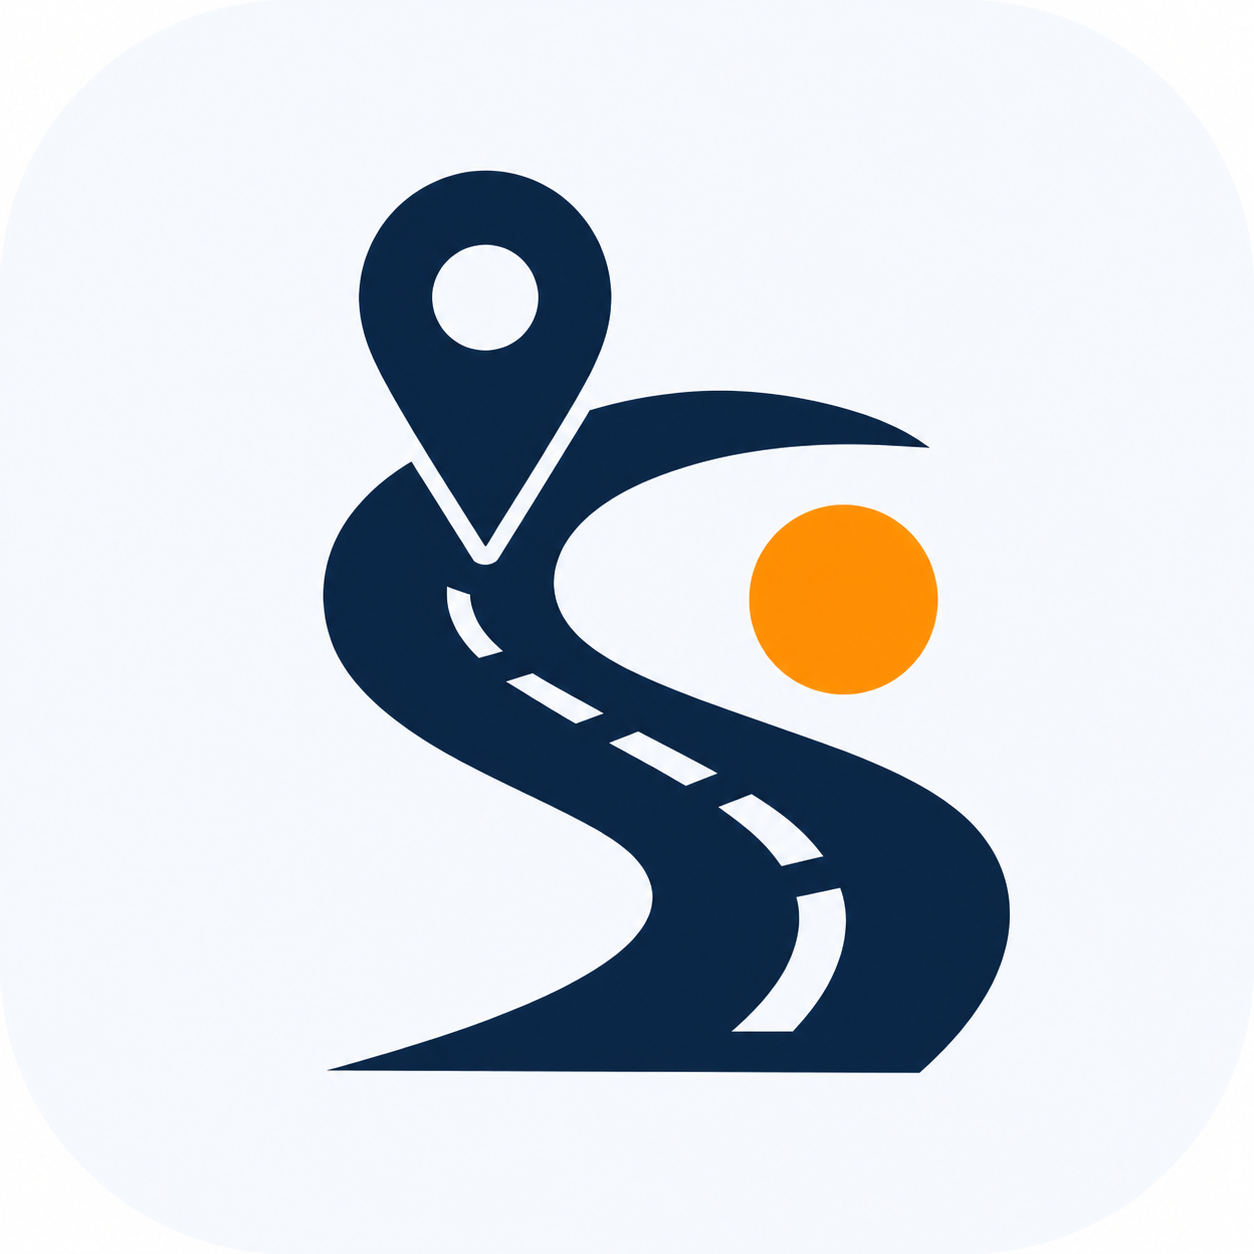
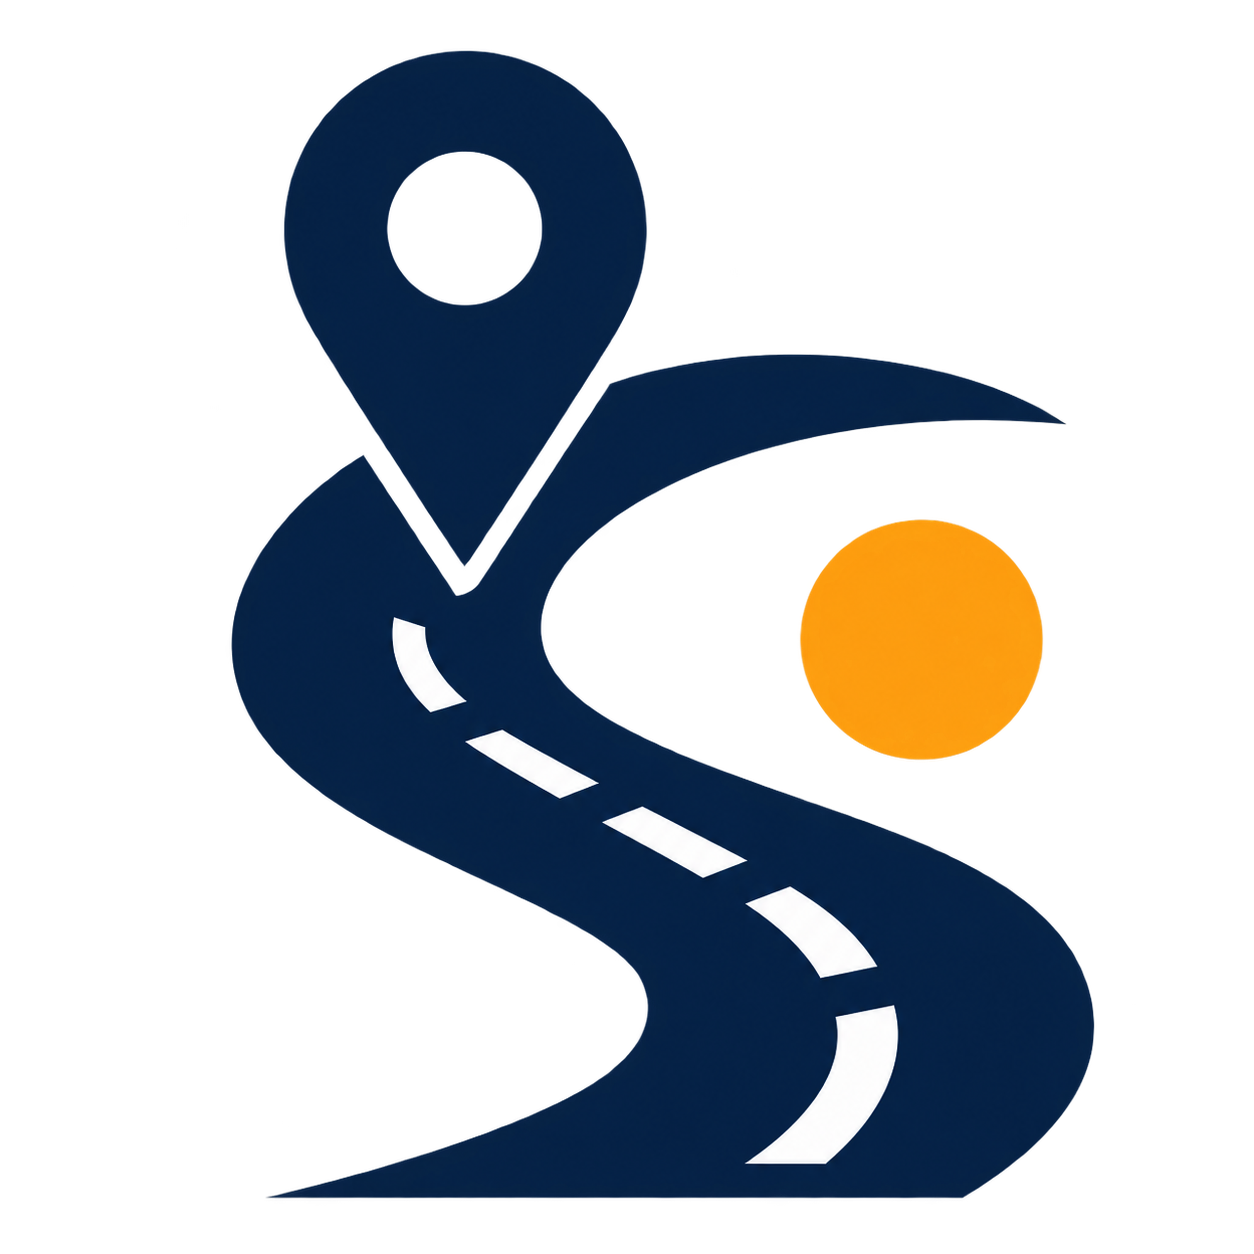
update

Changed region(s): [[0.1866, 0.0311, 0.8708, 0.9641], [0.5598, 0.3421, 0.5909, 0.3732], [0.4043, 0.3732, 0.4354, 0.4043]]

diff --git a/lib/screens/entry.dart b/lib/screens/entry.dart
@@ -34,31 +34,41 @@ class EntryScreen extends StatelessWidget {
                 padding: const EdgeInsets.fromLTRB(24, 72, 24, 28),
                 child: Column(
                   children: [
-                    const SafeLogo(size: 164, dark: true),
-                    const SizedBox(height: 22),
+                    const HeroBrandMark(size: 146),
+                    const SizedBox(height: 24),
                     Container(
                       padding: const EdgeInsets.symmetric(
                         horizontal: 12,
                         vertical: 7,
                       ),
                       decoration: BoxDecoration(
-                        color: safeOrange.withValues(alpha: .12),
+                        color: safeTeal.withValues(alpha: .12),
                         borderRadius: BorderRadius.circular(999),
                         border: Border.all(
-                          color: safeOrange.withValues(alpha: .32),
+                          color: safeTeal.withValues(alpha: .25),
                         ),
                       ),
                       child: const Text(
                         'SMARTER ROADS · SAFER COMMUNITIES',
                         style: TextStyle(
-                          color: Color(0xFFFFBF69),
+                          color: Color(0xFF6EE7C4),
                           fontSize: 10,
                           fontWeight: FontWeight.w800,
                           letterSpacing: 1.1,
                         ),
                       ),
                     ),
-                    const SizedBox(height: 18),
+                    const SizedBox(height: 16),
+                    const Text(
+                      'SafeJalan',
+                      style: TextStyle(
+                        color: Colors.white,
+                        fontSize: 44,
+                        fontWeight: FontWeight.w900,
+                        letterSpacing: -1.4,
+                      ),
+                    ),
+                    const SizedBox(height: 10),
                     const SizedBox(
                       width: 330,
                       child: Text(
@@ -108,8 +118,7 @@ class EntryScreen extends StatelessWidget {
                             width: double.infinity,
                             child: FilledButton.icon(
                               style: FilledButton.styleFrom(
-                                backgroundColor: safeOrange,
-                                foregroundColor: navy,
+                                backgroundColor: primary,
                                 minimumSize: const Size.fromHeight(56),
                               ),
                               onPressed: () => Navigator.push(
@@ -135,14 +144,10 @@ class EntryScreen extends StatelessWidget {
               child: TextButton.icon(
                 style: TextButton.styleFrom(
                   foregroundColor: Colors.white,
-                  backgroundColor: Colors.white.withValues(alpha: .1),
+                  backgroundColor: Colors.white.withValues(alpha: .08),
                   padding: const EdgeInsets.symmetric(
-                    horizontal: 15,
-                    vertical: 11,
-                  ),
-                  shape: RoundedRectangleBorder(
-                    borderRadius: BorderRadius.circular(14),
-                    side: const BorderSide(color: Colors.white24),
+                    horizontal: 14,
+                    vertical: 10,
                   ),
                 ),
                 icon: const Icon(Icons.admin_panel_settings_outlined, size: 18),

diff --git a/lib/widgets/common.dart b/lib/widgets/common.dart
@@ -2,11 +2,10 @@ import 'dart:io';
 import 'package:flutter/material.dart';
 import '../models/report.dart';
 
-const navy = Color(0xFF0C2745);
-const primary = Color(0xFF174A76);
-const safeOrange = Color(0xFFFF9F1C);
+const navy = Color(0xFF101828);
+const primary = Color(0xFF3B5BDB);
 const safeTeal = Color(0xFF12B886);
-const safeBg = Color(0xFFF3F7FB);
+const safeBg = Color(0xFFF4F7FC);
 const mutedText = Color(0xFF667085);
 const softBorder = Color(0xFFE4E7EC);
 
@@ -41,20 +40,8 @@ class ReportTile extends StatelessWidget {
   final VoidCallback onTap;
   const ReportTile({super.key, required this.report, required this.onTap});
   @override
-  Widget build(BuildContext context) => Container(
-    margin: const EdgeInsets.only(bottom: 14),
-    decoration: BoxDecoration(
-      color: Colors.white,
-      borderRadius: BorderRadius.circular(22),
-      border: Border.all(color: softBorder.withValues(alpha: .8)),
-      boxShadow: const [
-        BoxShadow(
-          color: Color(0x0D0C2745),
-          blurRadius: 22,
-          offset: Offset(0, 8),
-        ),
-      ],
-    ),
+  Widget build(BuildContext context) => Card(
+    margin: const EdgeInsets.only(bottom: 12),
     child: InkWell(
       borderRadius: BorderRadius.circular(20),
       onTap: onTap,
@@ -126,8 +113,6 @@ class ReportTile extends StatelessWidget {
                 ],
               ),
             ),
-            const SizedBox(width: 6),
-            const Icon(Icons.chevron_right_rounded, color: Color(0xFF98A2B3)),
           ],
         ),
       ),
@@ -178,19 +163,40 @@ class SafeLogo extends StatelessWidget {
   );
 }
 
-class SafeMark extends StatelessWidget {
+class HeroBrandMark extends StatelessWidget {
   final double size;
-  const SafeMark({super.key, this.size = 44});
+  const HeroBrandMark({super.key, this.size = 148});
 
   @override
-  Widget build(BuildContext context) => ClipRRect(
-    borderRadius: BorderRadius.circular(size * .26),
+  Widget build(BuildContext context) => Container(
+    width: size,
+    height: size,
+    padding: EdgeInsets.all(size * .12),
+    decoration: BoxDecoration(
+      shape: BoxShape.circle,
+      gradient: const LinearGradient(
+        begin: Alignment.topLeft,
+        end: Alignment.bottomRight,
+        colors: [Color(0xFFFFFFFF), Color(0xFFEAF2FA)],
+      ),
+      border: Border.all(color: Colors.white, width: 2),
+      boxShadow: [
+        BoxShadow(
+          color: const Color(0xFFFF9F1C).withValues(alpha: .28),
+          blurRadius: 34,
+          spreadRadius: 2,
+        ),
+        const BoxShadow(
+          color: Color(0x33000000),
+          blurRadius: 20,
+          offset: Offset(0, 12),
+        ),
+      ],
+    ),
     child: Image.asset(
       'assets/images/safejalan_app_icon.png',
-      width: size,
-      height: size,
-      fit: BoxFit.cover,
-      semanticLabel: 'SafeJalan app icon',
+      fit: BoxFit.contain,
+      semanticLabel: 'SafeJalan symbol',
     ),
   );
 }
@@ -204,15 +210,6 @@ class PageTitle extends StatelessWidget {
   @override
   Widget build(BuildContext context) => Row(
     children: [
-      Container(
-        width: 4,
-        height: 42,
-        decoration: BoxDecoration(
-          color: safeOrange,
-          borderRadius: BorderRadius.circular(99),
-        ),
-      ),
-      const SizedBox(width: 12),
       Expanded(
         child: Column(
           crossAxisAlignment: CrossAxisAlignment.start,
